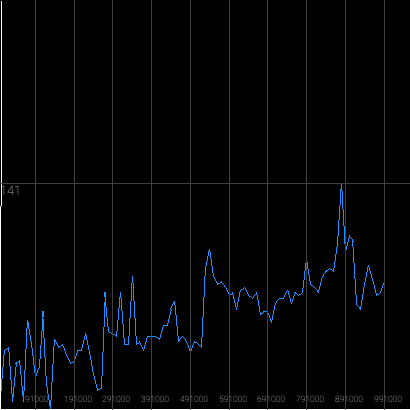
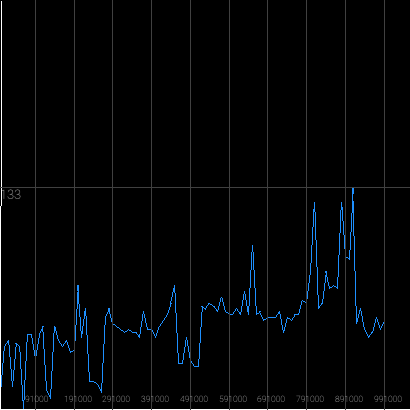
updated readme to match the main.rs examples

diff --git a/src/main.rs b/src/main.rs
@@ -59,8 +59,8 @@ fn main() {
     let mut hashmap_get = SpeedTest::new(benchmark_get);
     hashmap_get.test_speed(100, 100, 100, 5000000, eval_before_hash_get);
     let plotter = plotter::Plotter::new(hashmap_get.get_plot());
-    plotter.generate_image("vec_pop.png");
-    println!("finished plotting vector pop runtimes");
+    plotter.generate_image("hash_get.png");
+    println!("finished plotting hashmap get runtimes");
 
     // create new speedtest struct and pass it the closure to execute
     let mut speedtester_bigo_n = SpeedTest::new(

diff --git a/README.md b/README.md
@@ -9,46 +9,45 @@
 
 ### Usage Example
 
-Let's say you want to find the runtime complexity of the pop() method on a vector.
+Let's say you want to find the runtime complexity of the get() method on a hashmap.
 This tool allows you to make a graph with n (number of elements in the vector) on the x axis,
 and runtime on the y axis. 
 
 First create a closure like this:
 
 ```rust
-let eval_before_vec = |n: u128| -> Vec<u128> {
-    let mut vec_of_len_n = Vec::new();
+let eval_before_hash_get = |n: u128| -> HashMap<String,u128> {
+    let mut hashmap = HashMap::new();
     for i in 0..n {
-        vec_of_len_n.push(i);
+        hashmap.insert(format!("index{}",i),i);
     }
-    return vec_of_len_n;
+    return hashmap;
 };
 ```
 
 The value returned by that closure will be passed to another closure, which will actually be executed and benchmarked:
 
 ```rust
-    let benchmark_pop =  |n:u128, mut vector: Vec<u128>| {
-        for i in 0..n {
-            black_box(vector.pop());
-        }
-    };
+let benchmark_get =  |n:u128, vector: &mut HashMap<String,u128>| {
+    black_box(vector.get(&format!("index{}",n-100)));
+};
 ```
 
-That closure takes a value of n, and a vector (which is created by the eval_before closure)
-and calls pop n times. 
+That closure takes a value of n, and a hashmap with n different elements (which is created by the eval_before closure)
+and calls get on a hashmap of n size. 
 the black_box method prevents the compiler from doing certain optimizations which can obscure the actual runtime complexity of your algorithm sometimes.
 
 
 then use this code to benchmark and plot the points:
 ```rust
-    let mut speedtest_vec_pop = SpeedTest::new(benchmark_pop);
-    speedtest_vec_pop.test_speed(10000,1000,100,1000, eval_before_vec);
-    let plotter = plotter::Plotter::new(speedtest_vec_pop.get_plot());
-    plotter.generate_image("vec_pop.png");
+let mut hashmap_get = SpeedTest::new(benchmark_get);
+hashmap_get.test_speed(100, 100, 100, 5000000, eval_before_hash_get);
+let plotter = plotter::Plotter::new(hashmap_get.get_plot());
+plotter.generate_image("hash_get.png");
+println!("finished plotting hashmap get runtimes");
 ```
 
 
-as you can see it makes a pretty graph with not too much noise! ![alt text](https://gitlab.com/matthewashton_k/closure-runtime-plotter/-/raw/master/vec_pop.png?ref_type=heads&inline=false)
+as you can see it makes a pretty graph with not too much noise! ![hashmap get plot](https://gitlab.com/matthewashton_k/closure-runtime-plotter/-/raw/master/hash_get.png?ref_type=heads&inline=false)
 
 
